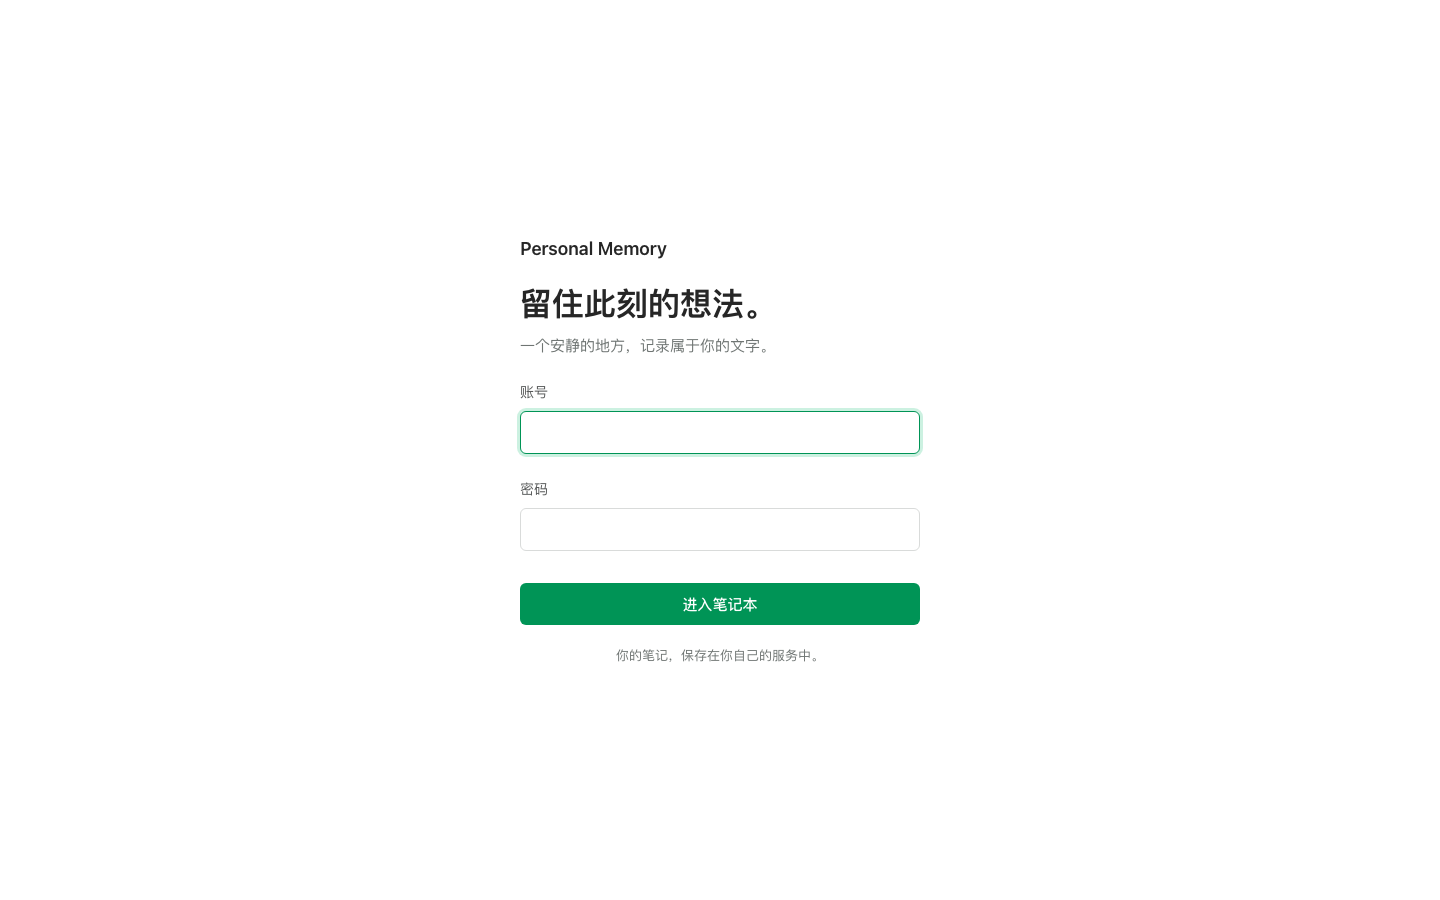
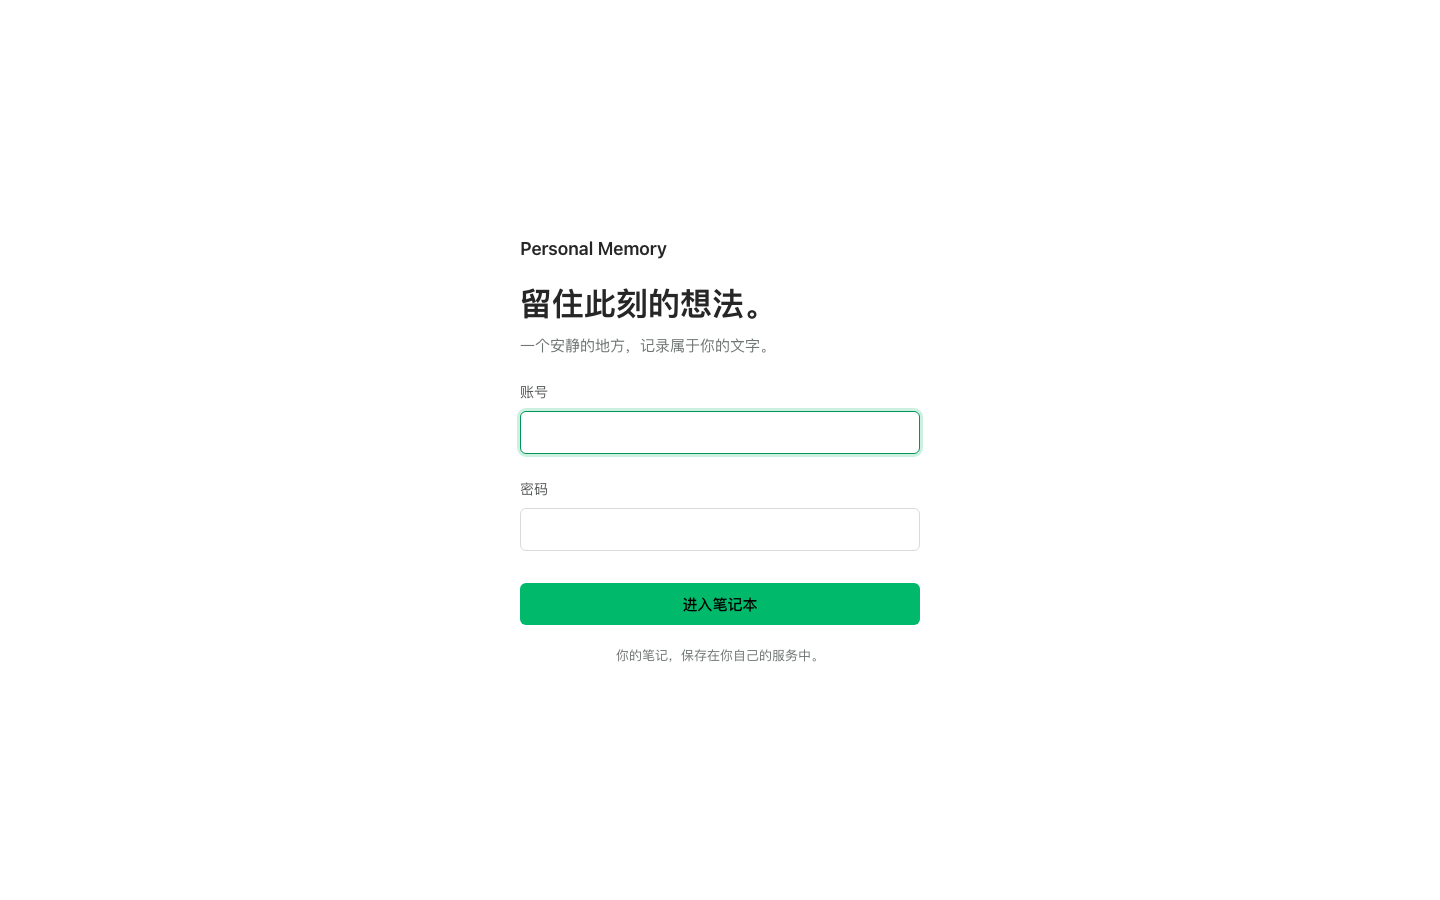
fix: dark text on the two greens so primary buttons meet 4.5:1
The task fixes the greens, not the button text colour. Black on #00b96b
is 8.2:1 and on the #009456 hover 5.4:1, so the default and hover
contrast checks are restored. The draft hint text uses the ink colour.

Changed region(s): [[0.3438, 0.6222, 0.6562, 0.7156]]

diff --git a/tests/e2e/notebook.spec.ts b/tests/e2e/notebook.spec.ts
@@ -327,8 +327,10 @@ test('completed task styling stays on that task and primary buttons keep readabl
         back = luminance(style.backgroundColor);
       return (Math.max(text, back) + 0.05) / (Math.min(text, back) + 0.05);
     });
-  // Palette is fixed to #00b96b / #009456; white on #009456 is 3.9:1, so the bar is WCAG's 3:1.
-  expect(await contrast(page.getByRole('button', { name: /新的笔记/ }))).toBeGreaterThanOrEqual(3);
+  const create = page.getByRole('button', { name: /新的笔记/ });
+  expect(await contrast(create)).toBeGreaterThanOrEqual(4.5);
+  await create.hover();
+  expect(await contrast(create)).toBeGreaterThanOrEqual(4.5);
 });
 test('a note can be deleted from its sidebar menu without opening it', async ({
   context,

diff --git a/apps/web/src/style.css b/apps/web/src/style.css
@@ -77,13 +77,13 @@ textarea:focus {
   box-shadow: 0 0 0 3px #00b96b33;
 }
 .primary {
-  background: var(--brand-strong);
-  color: #fff;
+  background: var(--brand);
+  color: #000;
   padding: 9px 18px;
   font-weight: 500;
 }
 .primary:hover {
-  background: var(--brand);
+  background: var(--brand-strong);
 }
 .muted,
 small {
@@ -522,7 +522,7 @@ small {
   padding: 8px 20px 0;
 }
 .draft-hint button {
-  color: var(--brand-strong);
+  color: var(--ink);
   background: #00b96b1a;
 }
 .welcome {
